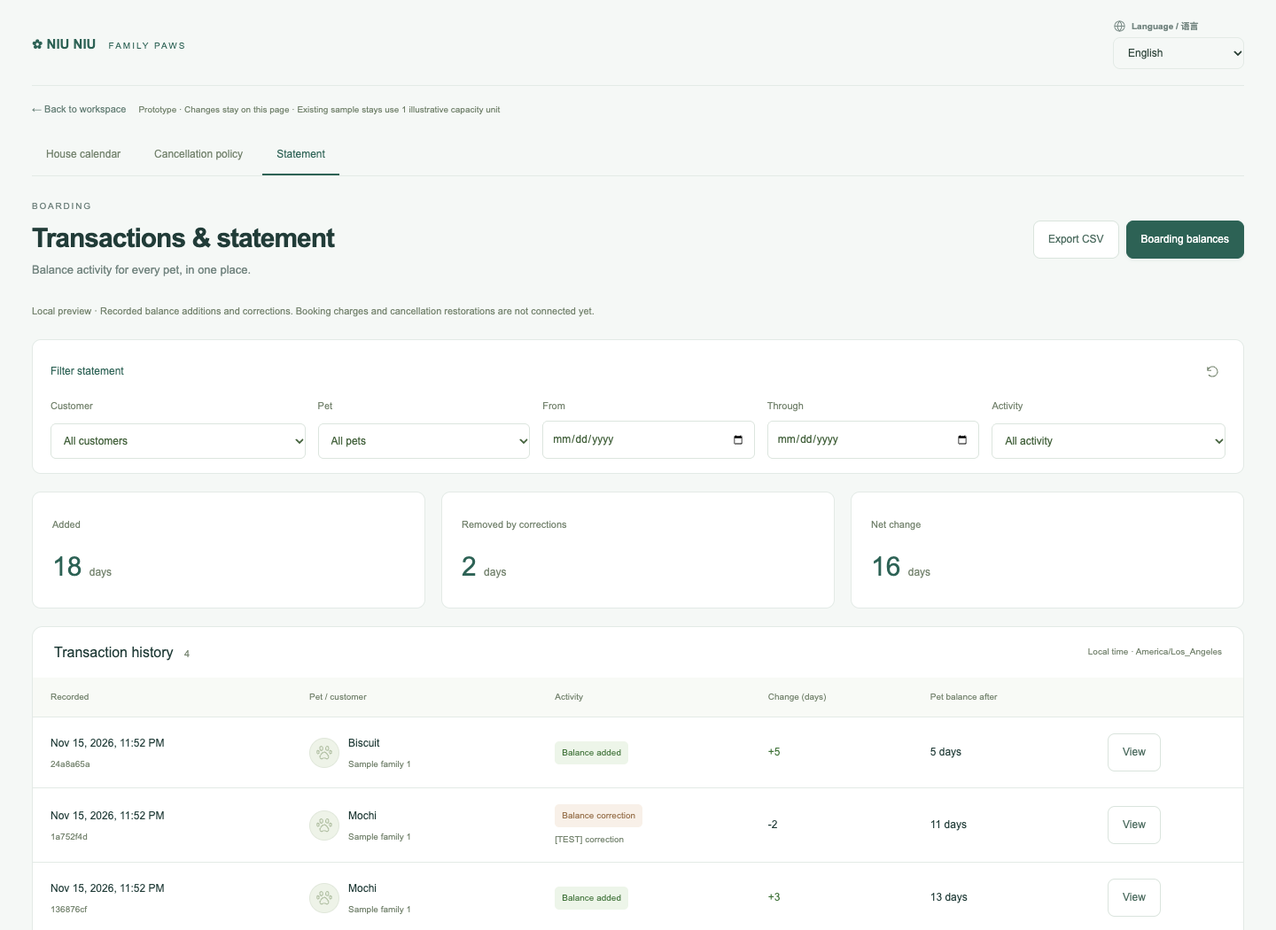
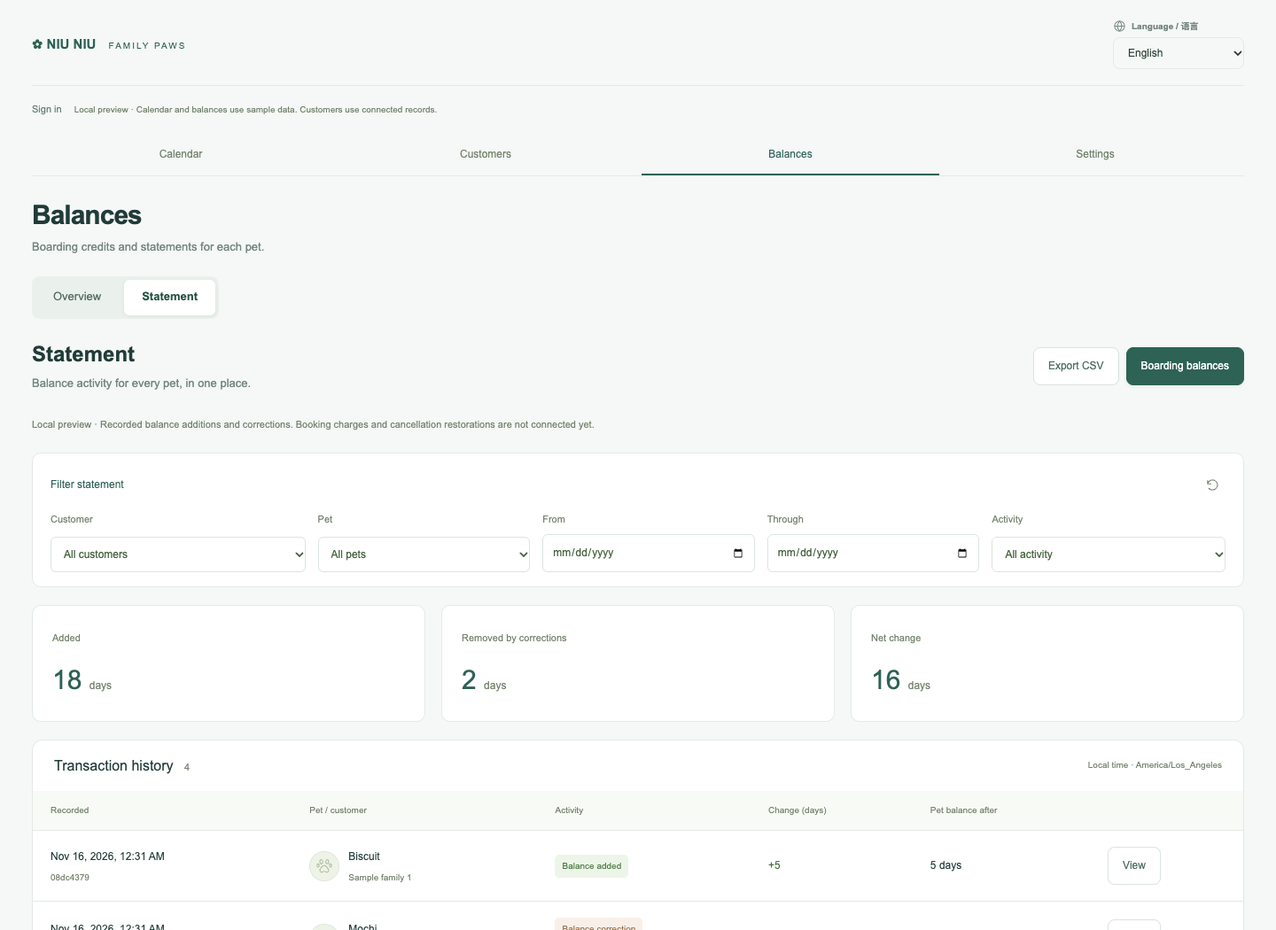
Move statements into Balances and simplify Settings

diff --git a/apps/web/src/pet-balances.tsx b/apps/web/src/pet-balances.tsx
@@ -5,9 +5,9 @@ import {PetProfileAvatar,PhotoSignIn} from './calendar-pet-photos';
 import UnsavedChanges,{confirmDiscardChanges} from './unsaved-changes';
 import {balanceKey,changePetBalance,plannedDays,validBalanceDates,type BalancePolicyTemplate,type PetBalance,type BalanceService,type BalanceChange,type PlannedCoverage} from './pet-balance';
 export type BalancePet={name:string;customer:string;customerName:string;species:string};
-export default function PetBalances({pets,accounts,plans,initial,onClose,onSave,templates,onSaveTemplate,embedded=false}:{embedded?:boolean;templates:BalancePolicyTemplate[];onSaveTemplate:(template:BalancePolicyTemplate)=>void;pets:BalancePet[];accounts:Record<string,PetBalance>;plans:PlannedCoverage[];initial?:{pet:string;service:BalanceService};onClose:()=>void;onSave:(change:BalanceChange)=>void}){
+export default function PetBalances({pets,accounts,plans,initial,onClose,onSave,templates,onSaveTemplate,embedded=false,onSelectPet}:{onSelectPet?:(pet:string)=>void;embedded?:boolean;templates:BalancePolicyTemplate[];onSaveTemplate:(template:BalancePolicyTemplate)=>void;pets:BalancePet[];accounts:Record<string,PetBalance>;plans:PlannedCoverage[];initial?:{pet:string;service:BalanceService};onClose:()=>void;onSave:(change:BalanceChange)=>void}){
  const {i18n}=useTranslation(),zh=i18n.language==='zh',t=(en:string,cn:string)=>zh?cn:en;
- const [customer,setCustomer]=React.useState(initial?pets.find(p=>p.name===initial.pet)?.customer||'all':'all'),[pet,setPet]=React.useState(initial?.pet||pets[0]?.name||''),[service]=React.useState<BalanceService>('boarding');
+ const [customer,setCustomer]=React.useState(embedded?'all':initial?pets.find(p=>p.name===initial.pet)?.customer||'all':'all'),[pet,setPet]=React.useState(initial?.pet||pets[0]?.name||''),[service]=React.useState<BalanceService>('boarding');
  const [editing,setEditing]=React.useState(false),[mode,setMode]=React.useState('add'),[amount,setAmount]=React.useState(''),[reason,setReason]=React.useState(''),[from,setFrom]=React.useState(''),[through,setThrough]=React.useState(''),[template,setTemplate]=React.useState(''),[templateName,setTemplateName]=React.useState(''),[error,setError]=React.useState('');
  const form=React.useRef<HTMLFormElement>(null),op=React.useRef(''),version=React.useRef(0);
  const account=accounts[balanceKey(pet,service)],planned=plannedDays(plans,pet,service),dirty=editing&&!!(amount||reason||from!==(account?.validFrom||'')||through!==(account?.validThrough||'')||templateName);
@@ -18,9 +18,10 @@ export default function PetBalances({pets,accounts,plans,initial,onClose,onSave,
  function closeEditor(){if(confirmDiscardChanges(i18n.language,form.current))setEditing(false);}
  function save(event:React.FormEvent){event.preventDefault();const delta=(mode==='remove'?-1:1)*Number(amount);const change:BalanceChange={id:op.current,pet,service,version:version.current,delta,reason,validFrom:from,validThrough:through};try{changePetBalance(account,change,plans,new Date().toISOString());onSave(change);setEditing(false);setError('');}catch(e){setError(messages[(e as Error).message]||messages.adjustment);}}
  function saveTemplate(){if(!templateName.trim()||!validBalanceDates(from,through)){setError(t('Name the template and choose a valid date range.','请填写模板名称及有效日期范围。'));return;}const item={id:crypto.randomUUID(),name:templateName.trim(),service,validFrom:from,validThrough:through};onSaveTemplate(item);setTemplate(item.id);setTemplateName('');setError('');}
+ React.useEffect(()=>{onSelectPet?.(pet);},[pet,onSelectPet]);
  const selectedPet=pets.find(p=>p.name===pet);
  const editorForm=<form ref={form} className="hc-settings-form hc-balance-editor" onInvalidCapture={e=>{const policy=(e.target as HTMLElement).closest('details');if(policy)policy.open=true;}} onSubmit={save}><UnsavedChanges active={dirty}/><div className="hc-balance-editor-heading"><h4>{t('Add balance','增加余额')}</h4><p>{t('Boarding credit for this pet.','此宠物的寄养额度。')}</p></div>{error&&<p className="hc-range-feedback" role="alert">{error}</p>}<div className="hc-time-fields">{account&&<label>{t('Adjustment','调整方式')}<select aria-label={t('Adjustment','调整方式')} value={mode} onChange={e=>setMode(e.target.value)}><option value="add">{t('Add days','增加天数')}</option>{account&&<option value="remove">{t('Remove days','减少天数')}</option>}</select></label>}<label>{mode==='remove'?t('Days to remove','减少天数'):t('Days to add','增加天数')}<input aria-label={t('Days','天数')} type="number" required min={account?0:1} step="1" value={amount} onChange={e=>setAmount(e.target.value)}/></label></div><label>{t('Reason (optional)','原因（选填）')}<input aria-label={t('Reason','原因')} maxLength={500} value={reason} onChange={e=>setReason(e.target.value)} placeholder={t('Why is this balance changing?','此次余额调整的原因是什么？')}/></label><details className="hc-balance-policy" key={`${pet}-${service}-${editing}`} open={!account}><summary>{t('Coverage policy','使用规则')}<small>{t('Choose a template or set dates','选择模板或填写日期')}</small></summary><label>{t('Policy template','规则模板')}<select aria-label={t('Policy template','规则模板')} value={template} onChange={e=>{setTemplate(e.target.value);const item=templates.find(p=>p.id===e.target.value);if(item){setFrom(item.validFrom);setThrough(item.validThrough);}}}><option value="">{t('Custom dates','自定义日期')}</option>{templates.filter(p=>p.service===service).map(p=><option key={p.id} value={p.id}>{p.name}</option>)}</select></label><div className="hc-time-fields"><label>{t('Valid from','有效起始日')}<input required type="date" value={from} onChange={e=>{setFrom(e.target.value);setTemplate('');}}/></label><label>{t('Valid through','有效截止日')}<input required type="date" min={from} value={through} onChange={e=>{setThrough(e.target.value);setTemplate('');}}/></label></div><details className="hc-template-create"><summary>{t('Save dates as a template','将日期保存为模板')}</summary><div className="hc-template-save"><label>{t('New template name','新模板名称')}<input maxLength={80} value={templateName} onChange={e=>setTemplateName(e.target.value)} placeholder={t('Name this date range','为此日期范围命名')}/></label><button type="button" className="hc-manage" onClick={saveTemplate}>{t('Save template','保存模板')}</button></div></details><p className="hc-balance-preview">{t('Templates copy dates into this balance. Later changes do not alter other balances.','模板将日期复制到当前余额，后续修改不影响其他余额。')}</p></details><div className="hc-settings-actions"><button className="hc-manage" type="button" onClick={closeEditor}>{t('Cancel','取消')}</button><button className="hc-apply" type="submit">{mode==='remove'?t('Save adjustment','保存调整'):t('Add balance','增加余额')}</button></div></form>;
- const content=<><div className="hc-balance-layout"><aside className="hc-balance-sidebar">{!embedded&&<><PhotoSignIn/><a className="hc-finance-link" href={'#/transactions?pet='+encodeURIComponent(pet)} onClick={e=>{if(window.location.hash==='#/transactions?pet='+encodeURIComponent(pet)){e.preventDefault();leave();}}}>{t('View statement','查看交易明细')} ↗</a><a className="hc-finance-link" href="#/cancellation-policy">{t('Cancellation policy','取消政策')} ↗</a></>}{embedded&&<div className="hc-balance-sidebar-heading"><h2>{t('Pets','宠物')}</h2><span>{pets.filter(p=>customer==='all'||p.customer===customer).length}</span></div>}<label>{t('Customer','客户')}<select aria-label={t('Balance customer','余额客户')} value={customer} onChange={e=>{if(!confirmDiscardChanges(i18n.language,form.current))return;const value=e.target.value;setCustomer(value);setPet(pets.find(p=>value==='all'||p.customer===value)?.name||'');setEditing(false);}}><option value="all">{t('All customers','全部客户')}</option>{[...new Map(pets.map(p=>[p.customer,p.customerName])).entries()].map(([id,name])=><option key={id} value={id}>{name}</option>)}</select></label><div className="hc-balance-pets" role="group" aria-label={t('Choose a pet','选择宠物')}>{pets.filter(p=>customer==='all'||p.customer===customer).map(p=><button type="button" key={p.name} aria-label={`${t('Balance','余额')}: ${p.name}`} aria-pressed={pet===p.name} onClick={()=>switchPet(p.name)}><PetProfileAvatar name={p.name} className="hc-guest-avatar"/><span><strong>{p.name}</strong><small>{p.customerName}</small></span></button>)}</div>{embedded&&<div className="hc-balance-sidebar-footer"><PhotoSignIn/><a className="hc-finance-link" href={'#/transactions?pet='+encodeURIComponent(pet)} onClick={e=>{if(window.location.hash==='#/transactions?pet='+encodeURIComponent(pet)){e.preventDefault();leave();}}}>{t('View statement','查看交易明细')} ↗</a><a className="hc-finance-link" href="#/cancellation-policy">{t('Cancellation policy','取消政策')} ↗</a></div>}</aside>
+ const content=<><div className="hc-balance-layout"><aside className="hc-balance-sidebar">{!embedded&&<><PhotoSignIn/><a className="hc-finance-link" href={'#/balances?view=statement&pet='+encodeURIComponent(pet)} onClick={e=>{if(window.location.hash==='#/balances?view=statement&pet='+encodeURIComponent(pet)){e.preventDefault();leave();}}}>{t('View statement','查看交易明细')} ↗</a><a className="hc-finance-link" href="#/cancellation-policy">{t('Cancellation policy','取消政策')} ↗</a></>}{embedded&&<div className="hc-balance-sidebar-heading"><h2>{t('Pets','宠物')}</h2><span>{pets.filter(p=>customer==='all'||p.customer===customer).length}</span></div>}<label>{t('Customer','客户')}<select aria-label={t('Balance customer','余额客户')} value={customer} onChange={e=>{if(!confirmDiscardChanges(i18n.language,form.current))return;const value=e.target.value;setCustomer(value);setPet(pets.find(p=>value==='all'||p.customer===value)?.name||'');setEditing(false);}}><option value="all">{t('All customers','全部客户')}</option>{[...new Map(pets.map(p=>[p.customer,p.customerName])).entries()].map(([id,name])=><option key={id} value={id}>{name}</option>)}</select></label><div className="hc-balance-pets" role="group" aria-label={t('Choose a pet','选择宠物')}>{pets.filter(p=>customer==='all'||p.customer===customer).map(p=><button type="button" key={p.name} aria-label={`${t('Balance','余额')}: ${p.name}`} aria-pressed={pet===p.name} onClick={()=>switchPet(p.name)}><PetProfileAvatar name={p.name} className="hc-guest-avatar"/><span><strong>{p.name}</strong><small>{p.customerName}</small></span></button>)}</div>{embedded&&<div className="hc-balance-sidebar-footer"><PhotoSignIn/><a className="hc-finance-link" href={'#/balances?view=statement&pet='+encodeURIComponent(pet)} onClick={e=>{if(window.location.hash==='#/balances?view=statement&pet='+encodeURIComponent(pet)){e.preventDefault();leave();}}}>{t('View statement','查看交易明细')} ↗</a><a className="hc-finance-link" href="#/cancellation-policy">{t('Cancellation policy','取消政策')} ↗</a></div>}</aside>
  <section className="hc-balance-content"><div className="hc-balance-title"><div className="hc-balance-pet-heading">{embedded&&<PetProfileAvatar name={pet} className="hc-balance-selected-photo"/>}<div><p>{selectedPet?.customerName}</p><h3>{pet}</h3></div></div>{(!editing||embedded)&&<button className="hc-apply" onClick={open}>{t('Add balance','增加余额')}</button>}</div>
 
  <p className="hc-balance-preview">{t('Planning preview · No payments, deductions or reservations are saved.','规划预览 · 不保存付款、扣减或预留记录。')}</p>

diff --git a/apps/web/src/house-calendar.tsx b/apps/web/src/house-calendar.tsx
@@ -35,7 +35,8 @@ const initialStays:SampleStay[]=[
 const DAY=86400000;
 export default function HouseCalendar({onLanguageChange,customers,personal,account,identityEpoch=0}:{onLanguageChange:(lang:'en'|'zh')=>void;customers?:React.ReactNode;personal?:React.ReactNode;account?:React.ReactNode;identityEpoch?:number}){
  const {i18n}=useTranslation(),zh=i18n.language==='zh',t=(en:string,cn:string)=>zh?cn:en;
- const route=window.location.hash,view=route.split('?')[0]==='#/cancellation-policy'?'policy':route.split('?')[0]==='#/transactions'?'statement':route.split('?')[0]==='#/balances'?'balances':route.split('?')[0]==='#/customers'?'customers':route.split('?')[0]==='#/settings'?'settings':route.split('?')[0]==='#/personal'?'personal':'calendar';
+ const route=window.location.hash,path=route.split('?')[0],routeParams=new URLSearchParams(route.split('?')[1]||''),view=path==='#/cancellation-policy'?'policy':path==='#/transactions'||(path==='#/balances'&&routeParams.get('view')==='statement')?'statement':path==='#/balances'?'balances':path==='#/customers'?'customers':path==='#/settings'?'settings':path==='#/personal'?'personal':'calendar';
+ const [balancePagePet,setBalancePagePet]=React.useState('');
  const [cancellationPolicy,setCancellationPolicy]=React.useState(initialCancellationPolicy);
  const [stays,setStays]=React.useState<Stay[]>(()=>initialStays.map((s,i)=>({...s,id:'sample-'+i,units:1})));
  const [locations,setLocations]=React.useState([{id:1,rooms:[1,2,3]},{id:2,rooms:[1,2]}]);
@@ -89,13 +90,13 @@ export default function HouseCalendar({onLanguageChange,customers,personal,accou
  {account}
  <p className="hc-demo">{t('Local preview · Calendar and balances use sample data. Customers use connected records.','本地预览 · 日历与余额使用示例数据，客户页面使用已连接的资料')}</p>
  <nav className="hc-work-nav" aria-label={t('Workspace','工作区')}>{[
- ['#/house-calendar','Calendar','日历','calendar'],['#/customers','Customers','客户','customers'],['#/balances','Balances','寄养余额','balances'],['#/transactions','Statement','交易明细','statement'],['#/settings','Settings','设置','settings']
- ].map(([href,en,cn,key])=><a key={key} href={href} aria-current={view===key||(key==='settings'&&view==='policy')?'page':undefined}>{t(en,cn)}</a>)}</nav>
+ ['#/house-calendar','Calendar','日历','calendar'],['#/customers','Customers','客户','customers'],['#/balances','Balances','寄养余额','balances'],['#/settings','Settings','设置','settings']
+ ].map(([href,en,cn,key])=><a key={key} href={href} aria-current={view===key||(key==='balances'&&view==='statement')||(key==='settings'&&view==='policy')?'page':undefined}>{t(en,cn)}</a>)}</nav>
  <div data-retained-workspace hidden={view!=='customers'}>{customers||<a className="hc-manage" href="#/login">{t('Sign in to manage customers','登录以管理客户')}</a>}</div>
  <div data-retained-workspace hidden={view!=='personal'}><h1>{t('My profile and pets','我的资料与宠物')}</h1>{personal}</div>
- {view==='balances'&&<section><div className="hc-title"><div><h1>{t('Balances','寄养余额')}</h1><p>{t('Boarding credits and adjustments for each pet.','管理每只宠物的寄养额度与调整。')}</p></div></div><PetBalances embedded templates={balanceTemplates} onSaveTemplate={item=>setBalanceTemplates(previous=>[...previous,item])} pets={roster} accounts={balances} plans={balancePlans} onClose={()=>{}} onSave={saveBalance}/></section>}
- <div hidden={view!=='settings'}><div className="hc-title"><div><h1>{t('Settings','设置')}</h1><p>{t('Manage locations and boarding rules.','管理房屋及寄养规则。')}</p></div></div><div className="hc-settings-cards"><section><h2>{t('Houses and rooms','房屋与房间')}</h2><p>{t('Saved houses are separate from the sample calendar. Room setup is still in progress.','保存的房屋与示例日历分开，房间设置仍在开发中。')}</p>{admin?<button className="hc-manage" onClick={()=>setManage(true)}>{t('Manage houses and rooms','管理房屋与房间')}</button>:<a href="#/login">{t('Sign in to manage houses','登录以管理房屋')}</a>}</section><section><h2>{t('Cancellation policy','取消政策')}</h2><p>{t('Review notice periods and credit restoration terms.','查看取消期限及额度返还规则。')}</p><a className="hc-manage" href="#/cancellation-policy">{t('Cancellation policy','取消政策')}</a></section></div></div>
- {view==='statement'&&<BoardingStatement key={route} accounts={balances} pets={roster} initialPet={new URLSearchParams(route.split('?')[1]||'').get('pet')||undefined} onManageBalance={pet=>setBalanceView({pet,service:'boarding'})}/>}
+ {(view==='balances'||view==='statement')&&<section className="hc-balances-workspace"><div className="hc-title"><div><h1>{t('Balances','寄养余额')}</h1><p>{t('Boarding credits and statements for each pet.','管理每只宠物的寄养额度与交易明细。')}</p></div></div><nav className="hc-balance-views" aria-label={t('Balance views','余额视图')}><a href={'#/balances'+(balancePagePet?'?pet='+encodeURIComponent(balancePagePet):'')} aria-current={view==='balances'?'page':undefined}>{t('Overview','余额概览')}</a><a href="#/balances?view=statement" aria-current={view==='statement'?'page':undefined}>{t('Statement','交易明细')}</a></nav>{view==='balances'?<PetBalances embedded templates={balanceTemplates} onSaveTemplate={item=>setBalanceTemplates(previous=>[...previous,item])} pets={roster} accounts={balances} plans={balancePlans} initial={{pet:routeParams.get('pet')||balancePagePet,service:'boarding'}} onSelectPet={setBalancePagePet} onClose={()=>{}} onSave={saveBalance}/>:<BoardingStatement embedded key={route} accounts={balances} pets={roster} initialPet={routeParams.get('pet')||undefined} onManageBalance={pet=>setBalanceView({pet,service:'boarding'})}/>}</section>}
+ <div hidden={view!=='settings'}><div className="hc-title"><div><h1>{t('Settings','设置')}</h1><p>{t('Manage boarding rules.','管理寄养规则。')}</p></div></div><div className="hc-settings-cards"><section><h2>{t('Cancellation policy','取消政策')}</h2><p>{t('Review notice periods and credit restoration terms.','查看取消期限及额度返还规则。')}</p><a className="hc-manage" href="#/cancellation-policy">{t('Cancellation policy','取消政策')}</a></section></div></div>
+
  {view==='policy'&&<CancellationPolicyPage policy={cancellationPolicy} onSave={setCancellationPolicy}/>}
  <div hidden={view!=='calendar'}>
  <div className="hc-title"><div><h1>{t('House calendar','房屋日历')}</h1><p>{t('Stays and check-ins, by room.','按房间查看托管与入住。')}</p></div><div className="hc-title-actions"><div className="hc-main-actions"><button className="hc-manage" onClick={()=>setBalanceView({pet:'',service:'boarding'})}>{t('Boarding balances','寄养余额')}</button><button className="hc-apply hc-add-placement" onClick={()=>setAssignment(null)}><Icon name="plus"/>{t('Add pet to room','添加宠物到房间')}</button><button className="hc-manage hc-add-house" title={t('Add house','添加房屋')} aria-label={t('Add house','添加房屋')} onClick={()=>setSettings({house:nextId.current++,creating:true})}><Icon name="plus"/>{t('Add house','添加房屋')}</button>{admin?<button className="hc-settings hc-top-icon" title={t('Manage houses & rooms','管理房屋与房间')} aria-label={t('Manage houses & rooms','管理房屋与房间')} onClick={()=>setManage(true)}><Icon name="settings"/></button>:<a className="hc-manage" href="#/login">{t('Sign in to manage houses','登录以管理房屋')}</a>}</div><div className="hc-live"><span/> {t('Local time','当地时间')} · {now.toLocaleTimeString(locale,{hour:'2-digit',minute:'2-digit'})}<small>{t('Sample timezone','示例时区')}: {Intl.DateTimeFormat().resolvedOptions().timeZone}</small></div></div></div>

diff --git a/apps/web/src/boarding-statement-page.tsx b/apps/web/src/boarding-statement-page.tsx
@@ -5,14 +5,14 @@ import {statementEntries,filterStatement,statementTotals,statementCsv,validState
 import {PetProfileAvatar,CalendarPhotoCredits} from './calendar-pet-photos';
 import Icon from './icons';
 import Modal from './modal';
-export default function BoardingStatement({accounts,pets,initialPet,onManageBalance}:{accounts:Record<string,PetBalance>;pets:StatementPet[];initialPet?:string;onManageBalance:(pet:string)=>void}){
+export default function BoardingStatement({accounts,pets,initialPet,onManageBalance,embedded=false}:{embedded?:boolean;accounts:Record<string,PetBalance>;pets:StatementPet[];initialPet?:string;onManageBalance:(pet:string)=>void}){
  const {i18n}=useTranslation(),zh=i18n.language==='zh',t=(en:string,cn:string)=>zh?cn:en,locale=zh?'zh-CN':'en-US';
  const [filters,setFilters]=React.useState(()=>({...emptyStatementFilters,pet:pets.some(p=>p.name===initialPet)?initialPet!:'all'})),[selected,setSelected]=React.useState<StatementEntry|null>(null);
  const entries=statementEntries(accounts,pets),rows=filterStatement(entries,filters),totals=statementTotals(rows),valid=validStatementRange(filters.from,filters.through),filtered=JSON.stringify(filters)!==JSON.stringify(emptyStatementFilters);
  const labels:Record<StatementKind,string>={added:t('Balance added','增加余额'),correction:t('Balance correction','余额更正'),terms:t('Policy update','规则更新')};
  const number=(value:number)=>value.toLocaleString(locale),time=(value:string)=>new Date(value).toLocaleString(locale,{year:'numeric',month:'short',day:'numeric',hour:'2-digit',minute:'2-digit'});
  function download(){const csv=statementCsv(rows,[t('Recorded at (UTC)','记录时间（UTC）'),t('Reference','流水号'),t('Customer','客户'),t('Pet','宠物'),t('Activity','类型'),t('Change (days)','变动（天）'),t('Before (days)','变动前（天）'),t('After (days)','变动后（天）'),t('Note','备注')],labels);const url=URL.createObjectURL(new Blob([csv],{type:'text/csv;charset=utf-8'}));const link=document.createElement('a');link.href=url;link.download='boarding-statement-'+new Date().toISOString().slice(0,10)+'.csv';link.click();setTimeout(()=>URL.revokeObjectURL(url),1000);}
- return <section className="hc-finance-page hc-statement-page"><div className="hc-title"><div><p className="hc-page-eyebrow">{t('BOARDING','寄养')}</p><h1>{t('Transactions & statement','交易与明细')}</h1><p>{t('Balance activity for every pet, in one place.','在一个页面查看每只宠物的余额变动。')}</p></div><div className="hc-statement-actions"><button className="hc-manage" disabled={!rows.length||!valid} onClick={download}>{t('Export CSV','导出 CSV')}</button><button className="hc-apply" onClick={()=>onManageBalance(filters.pet==='all'?'':filters.pet)}>{t('Boarding balances','寄养余额')}</button></div></div>
+ return <section className="hc-finance-page hc-statement-page"><div className="hc-title"><div>{!embedded&&<p className="hc-page-eyebrow">{t('BOARDING','寄养')}</p>}{embedded?<h2>{t('Statement','交易明细')}</h2>:<h1>{t('Statement','交易明细')}</h1>}<p>{t('Balance activity for every pet, in one place.','在一个页面查看每只宠物的余额变动。')}</p></div><div className="hc-statement-actions"><button className="hc-manage" disabled={!rows.length||!valid} onClick={download}>{t('Export CSV','导出 CSV')}</button><button className="hc-apply" onClick={()=>onManageBalance(filters.pet==='all'?'':filters.pet)}>{t('Boarding balances','寄养余额')}</button></div></div>
  <p className="hc-statement-note">{t('Local preview · Recorded balance additions and corrections. Booking charges and cancellation restorations are not connected yet.','本地预览 · 显示已记录的余额增加及更正，尚未接入预约扣减与取消返还。')}</p>
  <section className="hc-statement-filters" aria-label={t('Statement filters','明细筛选')}><div className="hc-filters-heading"><h2>{t('Filter statement','筛选明细')}</h2><button className="hc-clear" aria-label={t('Reset statement filters','重置明细筛选')} title={t('Reset statement filters','重置明细筛选')} disabled={!filtered} onClick={()=>setFilters({...emptyStatementFilters})}><Icon name="reset"/></button></div><div><label>{t('Customer','客户')}<select aria-label={t('Statement customer','明细客户')} value={filters.customer} onChange={e=>setFilters({...filters,customer:e.target.value,pet:'all'})}><option value="all">{t('All customers','全部客户')}</option>{[...new Map(pets.map(p=>[p.customer,p.customerName])).entries()].map(([id,name])=><option key={id} value={id}>{name}</option>)}</select></label><label>{t('Pet','宠物')}<select aria-label={t('Statement pet','明细宠物')} value={filters.pet} onChange={e=>setFilters({...filters,pet:e.target.value})}><option value="all">{t('All pets','全部宠物')}</option>{pets.filter(p=>filters.customer==='all'||p.customer===filters.customer).map(p=><option key={p.name} value={p.name}>{p.name}</option>)}</select></label><label>{t('From','开始日期')}<input aria-label={t('Statement from','明细开始日期')} type="date" value={filters.from} onChange={e=>setFilters({...filters,from:e.target.value})}/></label><label>{t('Through','结束日期')}<input aria-label={t('Statement through','明细结束日期')} type="date" value={filters.through} onChange={e=>setFilters({...filters,through:e.target.value})}/></label><label>{t('Activity','类型')}<select aria-label={t('Statement activity','明细类型')} value={filters.kind} onChange={e=>setFilters({...filters,kind:e.target.value})}><option value="all">{t('All activity','全部类型')}</option>{Object.entries(labels).map(([key,label])=><option key={key} value={key}>{label}</option>)}</select></label></div>{!valid&&<p role="alert" className="hc-range-feedback">{t('Choose a valid date range with the start on or before the end.','请选择有效日期范围，开始日期不能晚于结束日期。')}</p>}</section>
  <div className="hc-statement-totals" aria-label={t('Filtered totals','筛选后合计')}><div><small>{t('Added','增加')}</small><strong>{valid?number(totals.added):'—'} <span>{t('days','天')}</span></strong></div><div><small>{t('Removed by corrections','更正减少')}</small><strong>{valid?number(totals.removed):'—'} <span>{t('days','天')}</span></strong></div><div><small>{t('Net change','净变动')}</small><strong>{valid?number(totals.net):'—'} <span>{t('days','天')}</span></strong></div></div>

diff --git a/tests/browser/boarding-statement.spec.ts b/tests/browser/boarding-statement.spec.ts
@@ -4,7 +4,7 @@ test('statement shows recorded per-pet changes, exports filtered rows and preser
  await page.setViewportSize({width:1440,height:1050});await page.goto('/#/house-calendar');await page.getByRole('button',{name:'Boarding balances',exact:true}).click();
  const add=async(days:string)=>{await page.getByRole('button',{name:'Add balance',exact:true}).click();await page.getByLabel('Days',{exact:true}).fill(days);if(await page.getByLabel('Valid from',{exact:true}).isVisible()){await page.getByLabel('Valid from',{exact:true}).fill('2026-01-01');await page.getByLabel('Valid through',{exact:true}).fill('2027-12-31');}await page.getByRole('button',{name:'Add balance',exact:true}).click();};
  await add('10');await add('3');await page.getByRole('button',{name:'Add balance',exact:true}).click();await page.getByLabel('Adjustment',{exact:true}).selectOption('remove');await page.getByLabel('Days',{exact:true}).fill('2');await page.getByLabel('Reason',{exact:true}).fill('[TEST] correction');await page.getByRole('button',{name:'Save adjustment',exact:true}).click();
- await page.getByRole('button',{name:'Balance: Biscuit',exact:true}).click();await add('5');await page.getByRole('button',{name:'Balance: Mochi',exact:true}).click();await page.getByRole('link',{name:'View statement'}).click();await expect(page.getByRole('heading',{name:'Transactions & statement',exact:true})).toBeVisible();await expect(page.getByLabel('Statement pet',{exact:true})).toHaveValue('Mochi');await expect(page.locator('.hc-statement-row')).toHaveCount(3);
+ await page.getByRole('button',{name:'Balance: Biscuit',exact:true}).click();await add('5');await page.getByRole('button',{name:'Balance: Mochi',exact:true}).click();await page.getByRole('link',{name:'View statement'}).click();await expect(page.getByRole('heading',{name:'Statement',exact:true})).toBeVisible();await expect(page).toHaveURL(/#\/balances\?view=statement&pet=Mochi$/);await expect(page.getByRole('navigation',{name:'Workspace'}).getByRole('link',{name:'Balances',exact:true})).toHaveAttribute('aria-current','page');await expect(page.getByLabel('Statement pet',{exact:true})).toHaveValue('Mochi');await expect(page.locator('.hc-statement-row')).toHaveCount(3);
  await page.getByLabel('Statement activity',{exact:true}).selectOption('correction');await expect(page.locator('.hc-statement-row')).toHaveCount(1);await expect(page.locator('.hc-statement-row td').nth(4)).toHaveText('11 days');
  await page.getByRole('button',{name:/View transaction:/}).click();await expect(page.getByRole('dialog').getByText('13 → 11 days',{exact:true})).toBeVisible();await expect(page.getByRole('dialog').getByText('[TEST] correction',{exact:true})).toBeVisible();await page.getByRole('button',{name:'Close',exact:true}).click();
  const downloadEvent=page.waitForEvent('download');await page.getByRole('button',{name:'Export CSV',exact:true}).click();const download=await downloadEvent;const csv=await readFile((await download.path())!,'utf8');expect(csv).toContain('"Balance correction",-2,13,11');expect(csv).not.toContain('Biscuit');
@@ -12,6 +12,6 @@ test('statement shows recorded per-pet changes, exports filtered rows and preser
  await page.setViewportSize({width:820,height:1000});expect(await page.evaluate(()=>document.documentElement.scrollWidth<=innerWidth)).toBe(true);
  await page.getByLabel('Statement customer',{exact:true}).selectOption('2');await expect(page.getByRole('heading',{name:'No matching transactions',exact:true})).toBeVisible();await page.getByRole('button',{name:'Clear filters',exact:true}).click();
  await page.getByLabel('Statement from',{exact:true}).fill('2027-01-02');await page.getByLabel('Statement through',{exact:true}).fill('2027-01-01');await expect(page.getByRole('alert')).toBeVisible();await expect(page.getByRole('button',{name:'Export CSV',exact:true})).toBeDisabled();await page.getByRole('button',{name:'Reset statement filters',exact:true}).click();
- await page.getByRole('link',{name:'Settings',exact:true}).click();await page.getByRole('link',{name:'Cancellation policy',exact:true}).click();await page.getByRole('link',{name:'Statement',exact:true}).click();await expect(page.locator('.hc-statement-row')).toHaveCount(4);
- await page.setViewportSize({width:390,height:844});await page.locator('.language-selector select').selectOption('zh');await expect(page.getByRole('heading',{name:'交易与明细',exact:true})).toBeVisible();expect(await page.evaluate(()=>document.documentElement.scrollWidth<=innerWidth)).toBe(true);await page.screenshot({path:'test-results/boarding-statement-mobile-zh.png',fullPage:true});
+ await page.getByRole('link',{name:'Settings',exact:true}).click();await page.getByRole('link',{name:'Cancellation policy',exact:true}).click();await page.getByRole('navigation',{name:'Workspace'}).getByRole('link',{name:'Balances',exact:true}).click();await page.getByRole('navigation',{name:'Balance views'}).getByRole('link',{name:'Statement',exact:true}).click();await expect(page.locator('.hc-statement-row')).toHaveCount(4);
+ await page.setViewportSize({width:390,height:844});await page.locator('.language-selector select').selectOption('zh');await expect(page.getByRole('heading',{name:'交易明细',exact:true})).toBeVisible();expect(await page.evaluate(()=>document.documentElement.scrollWidth<=innerWidth)).toBe(true);await page.screenshot({path:'test-results/boarding-statement-mobile-zh.png',fullPage:true});
 });

diff --git a/tests/browser/integrated-workspace.spec.ts b/tests/browser/integrated-workspace.spec.ts
@@ -1,6 +1,6 @@
 import {test,expect} from '@playwright/test';
 
-test('five ordered tabs connect customer records, balance preview, statement and settings',async({page,request})=>{
+test('four ordered tabs connect customer records, balance preview, statement and settings',async({page,request})=>{
  const email=`integrated-${Date.now()}@example.test`;
  const signup=await request.post('http://127.0.0.1:9099/identitytoolkit.googleapis.com/v1/accounts:signUp?key=demo-key',{data:{email,password:'emulator-only-password',returnSecureToken:true}});
  const {localId}=await signup.json();
@@ -11,7 +11,7 @@ test('five ordered tabs connect customer records, balance preview, statement and
  await page.goto('/#/login');
  await page.evaluate(async({email})=>{const {auth}=await import('/apps/web/src/auth-client.ts');const {signInWithEmailAndPassword}=await import('/node_modules/.vite/deps/firebase_auth.js');await signInWithEmailAndPassword(auth,email,'emulator-only-password');},{email});
  const nav=page.getByRole('navigation',{name:'Workspace',exact:true});
- await expect(nav.getByRole('link')).toHaveText(['Calendar','Customers','Balances','Statement','Settings']);
+ await expect(nav.getByRole('link')).toHaveText(['Calendar','Customers','Balances','Settings']);
  await expect(nav.getByRole('link',{name:'Calendar',exact:true})).toHaveAttribute('aria-current','page');
  await nav.getByRole('link',{name:'Balances',exact:true}).click();
  await expect(page.getByRole('heading',{name:'Balances',exact:true})).toBeVisible();
@@ -23,15 +23,15 @@ test('five ordered tabs connect customer records, balance preview, statement and
  await page.getByRole('dialog').getByRole('button',{name:'Add balance',exact:true}).click();
  await nav.getByRole('link',{name:'Customers',exact:true}).click();await expect(page.getByRole('button',{name:'Add customer',exact:true})).toBeVisible();
  await page.getByRole('link',{name:'My profile and pets',exact:true}).click();await page.getByRole('textbox',{name:'Your name',exact:true}).fill('Retained draft');
- await nav.getByRole('link',{name:'Settings',exact:true}).click();await page.getByRole('link',{name:'Cancellation policy',exact:true}).click();
+ await nav.getByRole('link',{name:'Settings',exact:true}).click();await expect(page.getByRole('heading',{name:'Houses and rooms',exact:true})).toHaveCount(0);await page.getByRole('link',{name:'Cancellation policy',exact:true}).click();
  await expect(nav.getByRole('link',{name:'Settings',exact:true})).toHaveAttribute('aria-current','page');
- await nav.getByRole('link',{name:'Statement',exact:true}).click();await expect(page.locator('.hc-statement-row')).toHaveCount(1);await expect(page.locator('.hc-statement-row')).toContainText('12 days');
+ await nav.getByRole('link',{name:'Balances',exact:true}).click();await page.getByRole('navigation',{name:'Balance views',exact:true}).getByRole('link',{name:'Statement',exact:true}).click();await expect(page.locator('.hc-statement-row')).toHaveCount(1);await expect(page.locator('.hc-statement-row')).toContainText('12 days');
  await nav.getByRole('link',{name:'Balances',exact:true}).click();await expect(page.locator('.hc-balance-metrics strong').first()).toHaveText('12');
  await page.getByRole('link',{name:'My profile and pets',exact:true}).click();await expect(page.getByRole('textbox',{name:'Your name',exact:true})).toHaveValue('Retained draft');
  await page.getByRole('textbox',{name:'Your name',exact:true}).fill('');
  await page.setViewportSize({width:1440,height:1000});await nav.getByRole('link',{name:'Settings',exact:true}).click();await page.screenshot({path:'test-results/integrated-workspace-desktop.png',fullPage:true});
  await page.setViewportSize({width:390,height:844});await page.getByRole('combobox',{name:'Language / 语言',exact:true}).selectOption('zh');
- await expect(page.getByRole('navigation').getByRole('link')).toHaveText(['日历','客户','寄养余额','交易明细','设置']);
+ await expect(page.getByRole('navigation').getByRole('link')).toHaveText(['日历','客户','寄养余额','设置']);
  expect(await page.evaluate(()=>document.documentElement.scrollWidth<=innerWidth)).toBe(true);
  await page.screenshot({path:'test-results/integrated-workspace-mobile-zh.png',fullPage:true});
 });

diff --git a/apps/web/src/house-calendar.css b/apps/web/src/house-calendar.css
@@ -175,7 +175,7 @@
 .hc-statement-filters .hc-filters-heading{flex-direction:row}.hc-statement-table-wrap{overflow-x:auto}.hc-statement-table{min-width:760px}@media(max-width:700px){.hc-statement-table{min-width:0}}
 
 /* One navigation order across the local administrator workspace. */
-.hc-account{display:flex;align-items:center;justify-content:flex-end;gap:12px;flex-wrap:wrap;margin:12px 0;color:#56635d;font-size:13px}.hc-account>span{overflow-wrap:anywhere;min-width:0}.hc-account .icon-button{width:40px;height:40px}.hc-work-nav{display:flex;gap:8px}.hc-work-nav a{flex:1;text-align:center;min-height:44px;display:flex;align-items:center;justify-content:center}.hc-balance-page{background:#fff;border:1px solid #dce3de;border-radius:12px;overflow:hidden}.hc-balance-page .hc-balance-layout{min-height:550px}.hc-settings-cards{display:grid;grid-template-columns:repeat(2,minmax(0,1fr));gap:20px}.hc-settings-cards>section{padding:24px;background:#fff;border:1px solid #dce3de;border-radius:12px}.hc-settings-cards h2{font-size:20px}.hc-settings-cards p{color:#56635d;line-height:1.6}.hc .portal-admin .customer-section{margin-top:24px}.hc [hidden]{display:none!important}
+.hc-account{display:flex;align-items:center;justify-content:flex-end;gap:12px;flex-wrap:wrap;margin:12px 0;color:#56635d;font-size:13px}.hc-account>span{overflow-wrap:anywhere;min-width:0}.hc-account .icon-button{width:40px;height:40px}.hc-work-nav{display:flex;gap:8px}.hc-work-nav a{flex:1;text-align:center;min-height:44px;display:flex;align-items:center;justify-content:center}.hc-balance-page{background:#fff;border:1px solid #dce3de;border-radius:12px;overflow:hidden}.hc-balance-page .hc-balance-layout{min-height:550px}.hc-settings-cards{display:grid;grid-template-columns:minmax(0,640px);gap:20px}.hc-settings-cards>section{padding:24px;background:#fff;border:1px solid #dce3de;border-radius:12px}.hc-settings-cards h2{font-size:20px}.hc-settings-cards p{color:#56635d;line-height:1.6}.hc .portal-admin .customer-section{margin-top:24px}.hc [hidden]{display:none!important}
 @media(max-width:600px){.hc-work-nav{gap:0;position:sticky;top:0;z-index:5;background:#f6f8f5}.hc-work-nav a{padding:12px 3px;font-size:12px;min-width:0}.hc-settings-cards{grid-template-columns:1fr}.hc-account{font-size:12px}.hc-balance-page .hc-balance-layout{min-height:0}}
 
 /* Full balance page: comfortable selection, readable summary, focused edits. */
@@ -247,3 +247,9 @@
  .hc-balance-page .hc-balance-history>div>small{grid-column:2;margin:0;white-space:normal}
  .hc-balance-edit-dialog .hc-settings-actions{bottom:-20px}
 }
+
+.hc-balance-views{display:flex;gap:6px;width:max-content;max-width:100%;padding:4px;margin:0 0 24px;background:#eaf0eb;border-radius:9px;font-size:13px}
+.hc-balance-views a{display:flex;align-items:center;justify-content:center;min-height:40px;padding:9px 20px;border-radius:6px;color:#536c5e}
+.hc-balance-views a[aria-current=page]{background:#fff;color:#244f41;font-weight:600;box-shadow:0 1px 4px #244f4114}
+.hc-balances-workspace>.hc-statement-page>.hc-title h2{font-size:24px;font-weight:600;line-height:1.3;margin:0 0 8px}
+@media(max-width:600px){.hc-balance-views{width:100%;margin-bottom:20px}.hc-balance-views a{flex:1;font-size:13px;min-height:44px}}

diff --git a/tests/browser/balances-layout.spec.ts b/tests/browser/balances-layout.spec.ts
@@ -11,6 +11,7 @@ test('balances page fits desktop and phones with focused edits and retained hist
  await page.getByLabel('Reason',{exact:true}).fill('[TEST] Initial boarding credit');
  page.once('dialog',d=>d.dismiss());await page.keyboard.press('Escape');await expect(editor).toBeVisible();await expect(page.getByLabel('Days',{exact:true})).toHaveValue('30');
  await editor.getByRole('button',{name:'Add balance',exact:true}).click();await expect(editor).toHaveCount(0);await expect(panel.getByRole('button',{name:'Add balance',exact:true})).toBeFocused();await expect(panel.locator('.hc-balance-metrics strong').first()).toHaveText('30');await expect(panel.locator('.hc-balance-history')).toContainText('[TEST] Initial boarding credit');
+ await page.getByRole('button',{name:'Balance: Miso',exact:true}).click();await page.getByRole('navigation',{name:'Balance views'}).getByRole('link',{name:'Statement',exact:true}).click();await page.getByRole('navigation',{name:'Balance views'}).getByRole('link',{name:'Overview',exact:true}).click();await expect(page.getByRole('button',{name:'Balance: Miso',exact:true})).toHaveAttribute('aria-pressed','true');await page.getByRole('button',{name:'Balance: Mochi',exact:true}).click();
  await page.screenshot({path:'test-results/balances-layout-desktop.png',fullPage:true});
  for(const width of [820,700,390,320]){
   await page.setViewportSize({width,height:900});expect(await page.evaluate(()=>document.documentElement.scrollWidth<=innerWidth)).toBe(true);

diff --git a/docs/session-handoff.md b/docs/session-handoff.md
@@ -1,5 +1,11 @@
 # Session handoff — 2026-10-22
 
+## Statement merged into Balances; Settings simplified — 2026-11-16
+
+Latest owner request: remove Houses and rooms from Settings and merge Statement into Balances. Branch feat/balances-statement-navigation starts from merged layout PR#55 (e262b2a, GitHub Verified). Main navigation is now Calendar / Customers / Balances / Settings. Balances has Overview and Statement subviews; internal statement links use #/balances?view=statement with optional pet query. Existing #/transactions links still open the same nested statement and select Balances. Overview retains selected pet across subviews without narrowing the page customer list; pet-scoped calendar balance dialogs remain unchanged. Shared balances/history, statement filters/detail dialogs/CSV and draft guards remain. Settings now contains only Cancellation policy; saved house management is retained on Calendar. No background, business rule, API, photo or persisted ledger change.
+
+Production build and all22 browser tests validated; coverage includes four-tab order, absent Settings house card, pet-scoped statement links, balance/history retention, selected-pet continuity across subviews, export/detail/filter behavior, existing Calendar house management and bilingual mobile layouts. Actual localhost Chrome clicked into Statement from Balances and opened Settings, confirming only Cancellation policy. Synthetic desktop/mobile statement and Settings screenshots updated. No business records changed, emulators/data reset or deployment. Financial preview limitations and unresolved decisions remain. Preserve room WIP#41, environment PR#24 and dist-dev. Review link/signature will be recorded in the PR.
+
 ## Balances page layout repair — 2026-11-16
 
 Owner requested fixing Balances page style/layout. Branch fix/balances-page-layout from merged navigation PR#53 (6adf607, GitHub Verified). Full page no longer inherits an unpadded compact dialog: 280px desktop selector sidebar, padded content panel, readable metrics/history, selected pet profile photo, selection counts and secondary links below pet selection. Phones use a horizontal pet strip, stacked metric rows and wrapping history. Full-page Add balance opens the shared form in a focused native dialog with draft guards, existing validation, sticky actions and return focus. Calendar/review balance dialogs retain their existing form layout and behavior. No balance rules/model/API or page background changes.

diff --git a/docs/business-owner-guide.md b/docs/business-owner-guide.md
@@ -188,3 +188,9 @@ Tab changes keep saved preview adjustments, the statement and calendar plans in 
 On the local Balances page, choose a customer and pet in the left sidebar. The selected pet’s photo, recorded days, planned days, available days, coverage dates and adjustment history appear on the right. On phones, swipe the pet row or use the customer filter; balance figures stack into readable rows. Add balance opens a focused dialog; Save records the preview adjustment, and Cancel, Close or Escape protect unsaved edits. Existing calendar balance dialogs still work. This remains a planning preview, with no new real financial operations.
 
 本地寄养余额页面在左侧选择客户与宠物，右侧显示所选宠物照片、记录天数、已计划天数、可计划天数、有效日期及调整记录。手机可横向滑动宠物列表或筛选客户，余额数字逐行显示。“增加余额”打开独立弹窗；取消、关闭或 Esc 会保护未保存修改。日历中的原有余额弹窗仍可使用，目前仍为规划预览。
+
+## Latest navigation — 2026-11-16
+
+The four main tabs are now **Calendar / Customers / Balances / Settings**. Open **Balances → Overview** to manage pet credits, or **Balances → Statement** for transaction filters, details and CSV export. A pet’s View statement shortcut opens this same statement view filtered to that pet. Returning to Overview retains the selected pet. Settings contains Cancellation policy; Houses and rooms has been removed from Settings. House management remains in the Calendar’s gear action. This replaces the earlier five-tab navigation instructions; all planning and financial limitations still apply.
+
+主导航现为 **日历 / 客户 / 寄养余额 / 设置**。在“寄养余额 → 余额概览”管理宠物额度，在“寄养余额 → 交易明细”筛选、查看及导出记录。宠物的“查看交易明细”进入同一视图并筛选该宠物，返回概览保留宠物选择。设置中保留取消政策，不再显示房屋与房间；房屋管理仍可从日历的齿轮入口打开。此说明取代之前的五个主标签说明，规划预览与财务功能限制不变。

diff --git a/docs/architecture.md b/docs/architecture.md
@@ -75,3 +75,7 @@ The dev-only #/transactions route derives an immutable read view from existing p
 In development, Portal owns current authentication and renders one mounted HouseCalendar shell for administrator routes. Ordered navigation is Calendar, Customers, Balances, Statement, Settings; /personal is secondary and /cancellation-policy selects Settings. Customers and Profile remain mounted in hidden route containers to retain drafts. The route guard skips their retained drafts only for internal shell routes, while sign-out/public navigation/login departure still check all drafts. Balance/policy editors continue to require discard confirmation. Role/identity loss removes administrator customer components and clears sample balances/plans/configuration; the user's own Profile stays mounted across same-identity role loss. Backend authorization remains mandatory.
 
 Balances reuses PetBalances as an embedded page or focused dialog, sharing the existing in-memory model/statement. These routes remain development-only, preserving the production portal while the financial workflow and room setup are unfinished. No calendar sample is linked to a saved booking or canonical financial balance. Mobile customer selection scrolls again after the pet list loads, avoiding a focus jump to an incomplete short panel.
+
+## Statement inside Balances — 2026-11-16
+
+Latest local navigation is Calendar, Customers, Balances, Settings. Balances owns Overview and Statement subviews. Canonical statement links use #/balances?view=statement with optional encoded pet scope; legacy #/transactions links still resolve to the same nested statement and select Balances in primary navigation. The existing statement data, validation, details and CSV implementation are reused with a subordinate heading. The selected overview pet survives subview transitions in workspace state; full-page customer filters start at All customers, while pet-scoped dialog behavior is unchanged. Settings exposes cancellation policy only; Calendar retains saved house management. No API, ledger, auth or production-routing change.

diff --git a/docs/requirements.md b/docs/requirements.md
@@ -137,7 +137,7 @@ Proposed cutoff interpretation, awaiting confirmation: at least 14 days before s
 - Preserve entered information through recoverable errors and uncertain-save retries; warn before discarding drafts.
 - Make times/house context, price/day calculations, balance changes and refund outcomes clear before confirmation.
 - Do not require hover or dragging. Use readable layouts and touch-friendly controls on phones.
-- Latest administrator navigation (2026-11-16): **Calendar / Customers / Balances / Statement / Settings**, ordered by importance, with no ampersands in tab names. Calendar is the administrator entry view. Customers includes pets; Settings contains houses/rooms and a cancellation-policy entry. Personal profile is a secondary account link. Integrate the existing local pages without claiming sample planning data is a real saved booking/balance system.
+- Latest administrator navigation (2026-11-16): **Calendar / Customers / Balances / Settings**, ordered by importance, with no ampersands in tab names. Calendar is the administrator entry view. Customers includes pets; Balances contains Overview and Statement views. Settings contains the cancellation-policy entry; remove Houses and rooms from Settings while retaining its Calendar management action. Personal profile is a secondary account link. Integrate the existing local pages without claiming sample planning data is a real saved booking/balance system.
 - Suggested customer navigation: My pets / Calendar / Packages. Latest approved admin navigation: **House calendar** is the daily destination; **Manage houses & rooms** opens setup in a focused dialog, replacing the separate Houses tab. Room setup remains WIP until implemented and validated.
 
 ## 13. Existing separate workstreams
